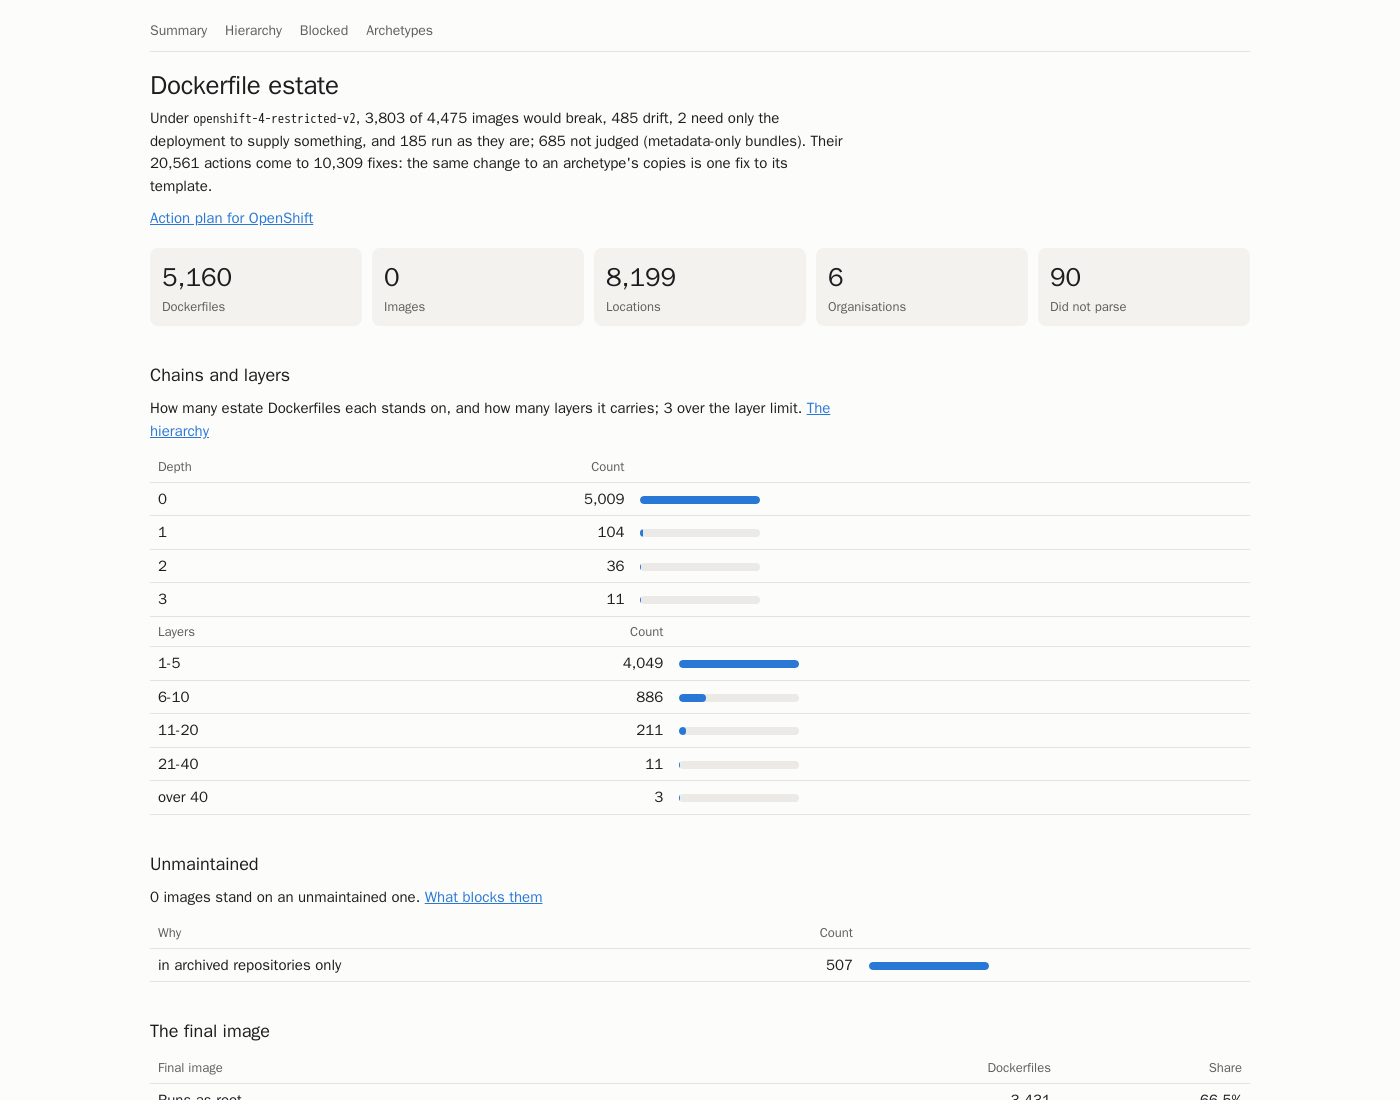
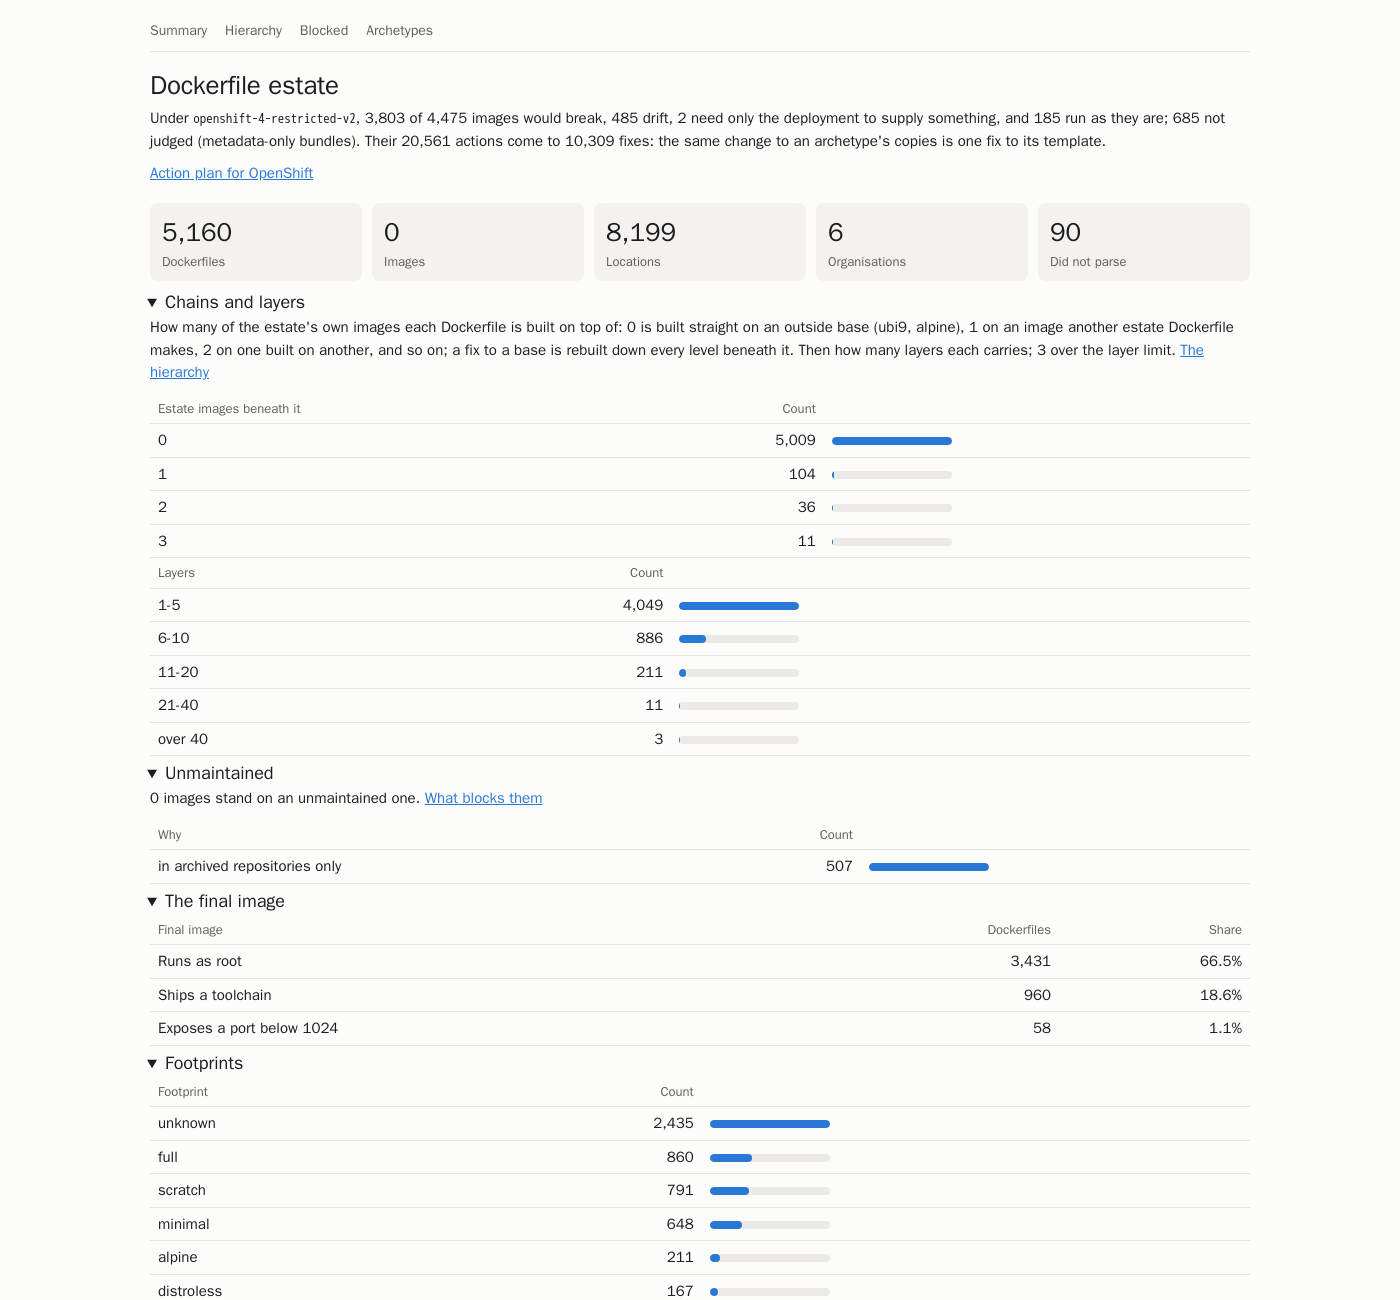
Fold the report's sections, let text run the page's width, and explain depth
Every page's h2 sections fold under their headings, open to begin with; paragraphs are
no longer held to 78 characters; the chains table explains what depth counts.

diff --git a/report/src/main/java/io/github/fiftieshousewife/dockerfileinventory/report/OverviewPage.java b/report/src/main/java/io/github/fiftieshousewife/dockerfileinventory/report/OverviewPage.java
@@ -22,10 +22,12 @@ final class OverviewPage {
                 + tile("Images", count(f.images()))
                 + tile("Locations", count(f.locations())) + tile("Organisations", count(f.organisations()))
                 + tile("Did not parse", count(f.unparsed())) + "</div>"
-                + "<h2>Chains and layers</h2><p>How many estate Dockerfiles each stands on, and how many layers it"
-                + " carries; " + count(f.overLimit()) + " over the layer limit. <a href=\"" + up
-                + "hierarchy.html\">The hierarchy</a></p>"
-                + table("Depth", f.depths()) + table("Layers", f.layerBands())
+                + "<h2>Chains and layers</h2><p>How many of the estate's own images each Dockerfile is built on top"
+                + " of: 0 is built straight on an outside base (ubi9, alpine), 1 on an image another estate Dockerfile"
+                + " makes, 2 on one built on another, and so on; a fix to a base is rebuilt down every level beneath"
+                + " it. Then how many layers each carries; " + count(f.overLimit()) + " over the layer limit. <a href=\""
+                + up + "hierarchy.html\">The hierarchy</a></p>"
+                + table("Estate images beneath it", f.depths()) + table("Layers", f.layerBands())
                 + "<h2>Unmaintained</h2><p>" + count(f.blockedImages())
                 + " images stand on an unmaintained one. <a href=\"" + up + "blocked.html\">What blocks them</a></p>"
                 + table("Why", f.unmaintained())

diff --git a/report/src/test/java/io/github/fiftieshousewife/dockerfileinventory/report/SectionsTest.java b/report/src/test/java/io/github/fiftieshousewife/dockerfileinventory/report/SectionsTest.java
@@ -1,0 +1,31 @@
+package io.github.fiftieshousewife.dockerfileinventory.report;
+
+import static org.assertj.core.api.Assertions.assertThat;
+import static org.junit.jupiter.api.Assertions.assertAll;
+
+import org.junit.jupiter.api.Test;
+
+class SectionsTest {
+
+    @Test
+    void eachSectionFoldsUnderItsHeadingOpenToBeginWith() {
+        assertThat(Sections.foldable("<p>lead</p><h2>Footprints</h2><table></table><h2>More</h2><ul></ul>"))
+                .isEqualTo("<p>lead</p>"
+                        + "<details class=\"section\" open><summary><h2>Footprints</h2></summary><table></table></details>"
+                        + "<details class=\"section\" open><summary><h2>More</h2></summary><ul></ul></details>");
+    }
+
+    @Test
+    void aPageWithoutSectionsIsLeftAlone() {
+        assertAll(
+                () -> assertThat(Sections.foldable("<p>just text</p>")).isEqualTo("<p>just text</p>"),
+                () -> assertThat(Sections.foldable("")).isEmpty());
+    }
+
+    @Test
+    void smallerHeadingsStayInsideTheirSection() {
+        assertThat(Sections.foldable("<h2>Stages</h2><table></table><h3>Copies</h3><table></table>"))
+                .isEqualTo("<details class=\"section\" open><summary><h2>Stages</h2></summary><table></table>"
+                        + "<h3>Copies</h3><table></table></details>");
+    }
+}

diff --git a/report/src/main/java/io/github/fiftieshousewife/dockerfileinventory/report/Sections.java b/report/src/main/java/io/github/fiftieshousewife/dockerfileinventory/report/Sections.java
@@ -1,0 +1,28 @@
+package io.github.fiftieshousewife.dockerfileinventory.report;
+
+import java.util.Arrays;
+import java.util.stream.Collectors;
+
+// Every page's sections fold under their headings, open to begin with; a page is read top to bottom, then skimmed.
+final class Sections {
+
+    private static final String HEADING = "<h2>";
+
+    private Sections() {
+    }
+
+    static String foldable(String body) {
+        int first = body.indexOf(HEADING);
+        if (first < 0) {
+            return body;
+        }
+        return body.substring(0, first) + Arrays.stream(body.substring(first + HEADING.length()).split(HEADING, -1))
+                .map(Sections::section).collect(Collectors.joining());
+    }
+
+    static String section(String afterHeading) {
+        int end = afterHeading.indexOf("</h2>") + "</h2>".length();
+        return "<details class=\"section\" open><summary>" + HEADING + afterHeading.substring(0, end) + "</summary>"
+                + afterHeading.substring(end) + "</details>";
+    }
+}

diff --git a/report/src/main/java/io/github/fiftieshousewife/dockerfileinventory/report/Style.java b/report/src/main/java/io/github/fiftieshousewife/dockerfileinventory/report/Style.java
@@ -22,7 +22,9 @@ final class Style {
                 outline-offset: 2px; }
             h1 { font-size: 26px; line-height: 1.2; margin: 0 0 6px; letter-spacing: -0.01em; }
             h2 { font-size: 18px; margin: 36px 0 8px; } h3 { font-size: 15px; margin: 20px 0 6px; }
-            p { margin: 0 0 10px; max-width: 78ch; } p.lead { font-size: 16px; }
+            p { margin: 0 0 10px; } p.lead { font-size: 16px; }
+            details.section > summary { cursor: pointer; list-style-position: outside; margin-left: 1em; }
+            details.section > summary h2 { display: inline; }
             .note, p.legend { color: var(--muted); font-size: 13px; }
             ul { margin: 0 0 10px; padding-left: 20px; } li { margin: 2px 0; }
             table { border-collapse: collapse; width: 100%; font-variant-numeric: tabular-nums; }

diff --git a/report/src/main/java/io/github/fiftieshousewife/dockerfileinventory/report/Page.java b/report/src/main/java/io/github/fiftieshousewife/dockerfileinventory/report/Page.java
@@ -18,7 +18,7 @@ final class Page {
                         + "hierarchy.html\">Hierarchy</a><a href=\"" + up + "blocked.html\">Blocked</a><a href=\""
                         + up + "archetypes.html\">Archetypes</a></nav>",
                 "<main><h1>" + escape(title) + "</h1>",
-                body,
+                Sections.foldable(body),
                 "</main></body></html>", "");
     }
 }
